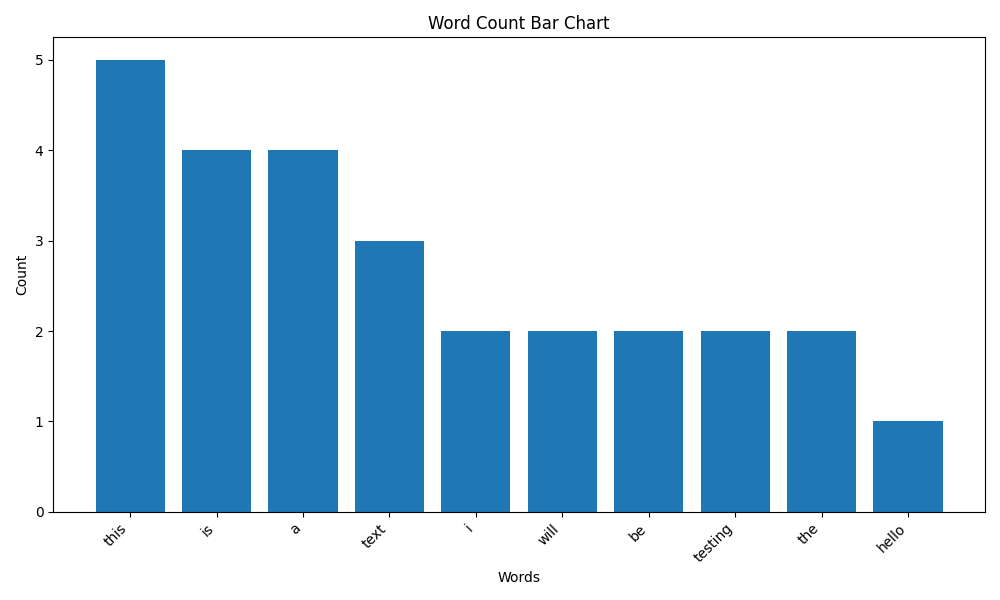
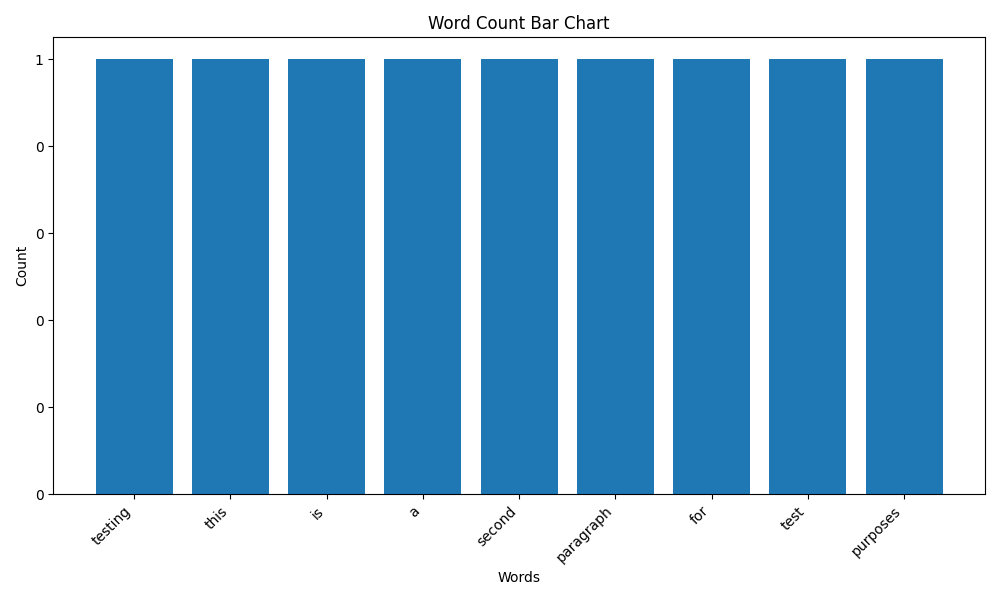
Added statistical analysis, text file generation, date detection

diff --git a/static/css/style.css b/static/css/style.css
@@ -3,7 +3,7 @@
     padding: 0;
 }
 ion-icon {
-    color: #FEE715;
+    color: #696969;
 }
 
 h3{
@@ -35,6 +35,7 @@ h3{
     padding: 0 30px 30px;
     color: #fff;
     overflow: auto;
+    z-index: 1;
 }
 .popup ion-icon{
     color: #00A97A;
@@ -69,6 +70,26 @@ h3{
     overflow: auto;
 }
 .savepopup ion-icon{
+    color: #00A97A;
+    font-size: 100px;
+    margin: 25px;
+}
+.newpopup{
+    width: 400px;
+    background:  #242F3F;
+    border-radius: 6px;
+    position: fixed;
+    top: 50%;
+    left: 50%;
+    transform: translate(-50%,-50%) scale(0);
+    transition: transform .4s, top .4s;
+    text-align: center;
+    padding: 0 30px 30px;
+    color: #fff;
+    overflow: auto;
+    z-index: 2;
+}
+.newpopup ion-icon{
     color: #00A97A;
     font-size: 100px;
     margin: 25px;
@@ -110,11 +131,16 @@ h3{
     transform: translate(-50%, -50%) scale(1);
     visibility: visible;
 }
+.open-newslide{
+    top: 50%;
+    transform: translate(-50%, -50%) scale(1);
+    visibility: visible;
+}
 body{
 
     min-height: 100vh;
     animation: fade-down 1s;
-    background: #101820;
+    background: #000000;
     font-family: 'Poppins';
 
 }
@@ -156,12 +182,12 @@ nav{
     position: relative;
 }
 .nav-links ul li a{
-    color: #FEE715;
+    color: #696969;
     text-decoration: none;
     font-size: 20px;
 }
 .nav-links ul li a:hover{
-    color: #D09683;
+    color: #FEE715;
 }
 .nav-links ul li::after{
     content: '';
@@ -170,13 +196,13 @@ nav{
     background: #fff;
     display: block;
     margin: auto;
-    transition: 0.4s;
+    transition: 0.5s;
 }
 .nav-links ul li:hover::after{
     content: '';
     width: 100%;
     height: 2px;
-    background: #D09683;
+    background: #FEE715;
     display: block;
     margin: auto;
 }
@@ -210,7 +236,7 @@ nav{
 .text-box p{
     margin: 20px;
     font-size: 20px;
-    color: #D09683;
+    color: #800080;
     display: flex;
     justify-content: flex-start;
 }
@@ -238,7 +264,7 @@ nav{
 }
 
 .content-template input{
-    background-color: #F0EDE6;
+    background-color: #222222;
     width: 95%;
     font-size: 15px;
     font-family: 'Poppins';
@@ -246,7 +272,7 @@ nav{
     border-radius: 10px;
     border: 0.5px solid black;
     margin-bottom: 20px;
-    color: black;
+    color: white;
 }
 
 .content-template textarea{
@@ -271,14 +297,14 @@ nav{
     border-width: 3px;
 }
 .content-template p{
-    color: #FEE715;
+    color: #800080;
     font-size: 18px;
     margin-top: 20px;
     margin-bottom: 10px;
 }
 .content-template select{
-    background-color: #F0EDE6;
-    color: black;
+    background-color: #222222;
+    color: white;
     display: flex;
     justify-content: center;
     align-items: center;
@@ -657,22 +683,22 @@ form.sign-up-form{
     margin-bottom: 50px;
 }
 #editor p{
-    color: black;
-    height: 50px;
+    color: white;
+    height: 25px;
 }
 .ql-container {
-    background-color: #f0f0f0;
+    background-color: #222222;
     border-radius: 10px;
 }
 .ql-toolbar.ql-snow {
-    background-color: #f0f0f0;
+    background-color: #222222;
     border-radius: 10px;
 }
 
 .ql-editor {
     height: 400px !important;
     width: 700px;
-    margin-top: 10px;
+    margin-top: 5px;
 }
 .paraphrase-btn{
     margin-top: 10px;
@@ -689,3 +715,4 @@ form.sign-up-form{
     background: #034efd;
     transition: 0.3s;
 }
+

diff --git a/templates/massSend.html b/templates/massSend.html
@@ -22,7 +22,9 @@
         <hr/>
     </div>
     <div class="email-template">
-        <form name="emaildata" id="emaildata" action="" method="post" enctype="multipart/form-data" onsubmit="return validation()">
+<!--        <form name="emaildata" id="emaildata" action="" method="post" enctype="multipart/form-data" onsubmit="return validation()">-->
+        <form name="emaildata" id="emaildata" action="" method="post" enctype="multipart/form-data">
+
         <h1> Mass Email Send Template</h1>
 
         <div class="content-template">
@@ -32,11 +34,11 @@
             <p>Type <b>'{}'</b> for different values.</p>
 
             <!--Quill editor-->
-            <div id="editor" ></div>
+            <div id="editor"></div>
 
             <textarea rows="20" cols="100" id="emailBody" style="display: none" name="content" placeholder="Enter content here" required></textarea>
 
-            <button type="submit" class="paraphrase-btn" name="paraphrase-btn">Paraphrase</button>
+            <button type="submit" class="paraphrase-btn" name="paraphrase-btn" onclick="openParaphrasePopup()">Paraphrase</button>
             {% if result %}
             <textarea rows="{{length}}" cols="10" class="text1" id="text1" name="text1" placeholder="No text are being paraphrase yet.">{%for i in result%}{{i+"\n"}}{%endfor%}</textarea>
             {% endif %}
@@ -66,7 +68,7 @@
 
         </div>
             <div class="submit-form">
-                <input type="submit" name="submitType" id="submit" onclick="validation()" value="Submit"/>
+                <input type="submit" name="submitType" id="submit" onclick="validation(emaildata)" value="Submit"/>
 
             </div>
             <div class="save-form">
@@ -109,6 +111,17 @@
         <p id="result"></p>
         <button type="button" onclick="closeErrorPopup()">OK</button>
     </div>
+    <div class="newpopup" id="newpopup">
+        <script src="https://cdn.lordicon.com/lordicon.js"></script>
+        <lord-icon
+            src="https://cdn.lordicon.com/lqxfrxad.json"
+            trigger="loop"
+            state="loop-queue"
+            style="width:250px;height:250px"
+            colors="primary:#00A97A">
+        </lord-icon>
+        <h2>Rephrasing the sentences...</h2>
+    </div>
     <!-- Initialize Quill editor -->
     <script>
 
@@ -116,13 +129,17 @@
             theme: 'snow'
          });
          quill.on('text-change', function(delta, oldDelta, source) {
-            console.log(quill.container.firstChild.innerHTML)
+            //console.log(quill.container.firstChild.innerHTML)
             document.getElementById("emailBody").value = quill.container.firstChild.innerHTML;
+<!--            document.getElementById("emailBody").value = document.getElementById("emailBody").value.replaceAll('<p>','')-->
+            document.getElementById("emailBody").value = document.getElementById("emailBody").value.replaceAll('</p><br>','<br>')
+            console.log(document.getElementById("emailBody").value)
          });
         var text1 = document.getElementById('text1');
         if (text1.value.trim() !== ''){
             textarea.style.display = 'block';
         }
+
     </script>
     </body>
 

diff --git a/static/script.js b/static/script.js
@@ -68,7 +68,8 @@ function validation(){
 //        return false;
 //    }
     else{
-
+        document.getElementById("emailBody").value = document.getElementById("emailBody").value.replaceAll('<br>','')
+        document.getElementById("emailBody").value = document.getElementById("emailBody").value.replaceAll('</p><p>','<br>')
         openPopup();
 
     }
@@ -116,6 +117,13 @@ function openErrorPopup(){
 }
 function closeErrorPopup(){
     document.getElementById("errorpopup").classList.remove("open-slide");
+}
+let paraphrasepopup = document.getElementById("newpopup");
+function openParaphrasePopup(){
+        document.getElementById("newpopup").classList.add("open-slide");
+}
+function closeParaphrasePopup(){
+    document.getElementById("newpopup").classList.remove("open-slide");
 }
 function passwordValidation(){
     var input1 = document.getElementById("signUpPassword").value;
@@ -169,3 +177,10 @@ sign_up_btn.addEventListener("click", ()=> {
 sign_in_btn.addEventListener("click", ()=> {
     container.classList.remove("sign-up-mode");
 });
+
+function handleKeyPress(e){
+
+//     console.log(e.key);
+
+}
+

diff --git a/templates/dashboard.html b/templates/dashboard.html
@@ -14,13 +14,13 @@
         <hr>
     </div>
     <div class="wordcloud">
-        <h1>Most frequent words in email content</h1>
-        <img src="{{url_for('static', filename='wordcloud.png') }}" alt="No Image Available">
+        <h1>Most frequent words in email content of {{ month }}</h1>
+        <img src="{{url_for('static', filename='wordcloud.png') }}" alt="No Charts Available">
     </div>
 
     <div class="barchart">
-        <h1>Most words appeared</h1>
-        <img src="{{url_for('static', filename='barchart.png') }}" alt="No Image Available">
+        <h1>Most words appeared of {{ month }}</h1>
+        <img src="{{url_for('static', filename='barchart.png') }}" alt="No Charts Available">
     </div>
 
 </body>

diff --git a/templates/index.html b/templates/index.html
@@ -9,7 +9,11 @@
     <link href='https://fonts.googleapis.com/css?family=Poppins' rel='stylesheet'></head>
     <script type="module" src="https://unpkg.com/ionicons@7.1.0/dist/ionicons/ionicons.esm.js"></script>
     <script nomodule src="https://unpkg.com/ionicons@7.1.0/dist/ionicons/ionicons.js"></script>
+    <script type="text/javascript" src="{{ url_for('static', filename='script.js') }}">
+    </script>
+
 <body>
+
     <section class = 'header'>
         <nav>
 <!--            <img src="static/Logo_Claim_A4_RGB.png" />-->
@@ -23,7 +27,6 @@
             </div>
 
         </nav>
-
         <hr/>
         </section>
 

diff --git a/app.py b/app.py
@@ -1,4 +1,6 @@
+import os.path
 import time
+from datetime import datetime
 from os import path
 from flask_sqlalchemy import SQLAlchemy
 from flask_login import LoginManager
@@ -117,9 +119,17 @@ def saveValue():
                 template = ' '.join(template.split(char))
             words = template.strip().split()
             print(words)
+            tdy = datetime.now()
+            tdymonth = tdy.strftime("%b")
             combineWords = ','.join(words)
-            txtfile = open("wordContent.txt", 'a')
-            txtfile.write(combineWords)
+            txtfile = open(tdymonth + ".txt", 'a')
+            readfile = open(tdymonth + ".txt", 'r')
+            first_char = readfile.read(1)
+            # txtfile = open("wordContent.txt", 'a')
+            if not first_char:
+                txtfile.write(combineWords)
+            else:
+                txtfile.write("," + combineWords)
             txtfile.close()
 
             return render_template('loading.html'), {"Refresh": "4; url=mass_send"}
@@ -186,10 +196,12 @@ def massSend():
 
 @app.route('/dashboard')
 def dashboard():
-    with open('wordContent.txt','r',encoding='utf-8') as file:
+    tdy = datetime.now()
+    tdymonth = tdy.strftime("%b")
+    month = tdy.strftime("%B")
+    with open(tdymonth + '.txt', 'r', encoding='utf-8') as file:
         word = file.read().lower()
     words = word.split(',')
-    # paraphrase()
 
     if word != '':
         wordcloud = WordCloud(width=800, height=400, background_color='#101820').generate(word)
@@ -210,7 +222,7 @@ def dashboard():
         plt.gca().yaxis.set_major_formatter(ticker.FormatStrFormatter('%d'))
         plt.tight_layout()
         plt.savefig('static/barchart.png')
-        return render_template('dashboard.html')
+        return render_template('dashboard.html', month=month)
     else:
         return render_template('emptyContent.html'), {"Refresh": "4; url=mass_send"}
 
